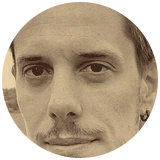
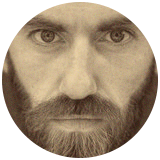
fix(non-fa-ridere): Filippo's face is actor Giacomo Bottoni
Filippo is played by Giacomo Bottoni, not the director — swapped the
player's treated face to his frontal headshot (same sepia duotone +
grain + circular mask). Image only; rendering unchanged.

diff --git a/docs/non-fa-ridere-spec.md b/docs/non-fa-ridere-spec.md
@@ -42,7 +42,7 @@ Spawn favours the front (≈72% from ahead). Music is procedural punk (WebAudio)
 | Tea (mini-boss) | kitchen guardian, 6 HP | 100 |
 | Giulio | **final boss**, 24 HP, chases Filippo and enrages (faster + dashes) under 40% HP ("te tiro dentro a lu forno!") | 600 |
 
-Bosses show a name label (TEA / GIULIO) over their health bar. **Filippo (player) and Giulio (final boss) wear the real people's faces** — cropped from photos, treated to a warm sepia duotone + grain, circular-masked, and drawn as a head over the pixel body (`public/img/non-fa-ridere/filippo-face.png` from the site portrait `me.jpg`; `giulio-face.png` from a backstage close-up). The other characters are pixel sprites.
+Bosses show a name label (TEA / GIULIO) over their health bar. **Filippo (player) and Giulio (final boss) wear the real people's faces** — cropped from photos, treated to a warm sepia duotone + grain, circular-masked, and drawn as a head over the pixel body (`filippo-face.png` from actor **Giacomo Bottoni**'s headshot, who plays Filippo; `giulio-face.png` from a backstage close-up of the actor playing Giulio). The other characters are pixel sprites.
 
 ## Leaderboard
 